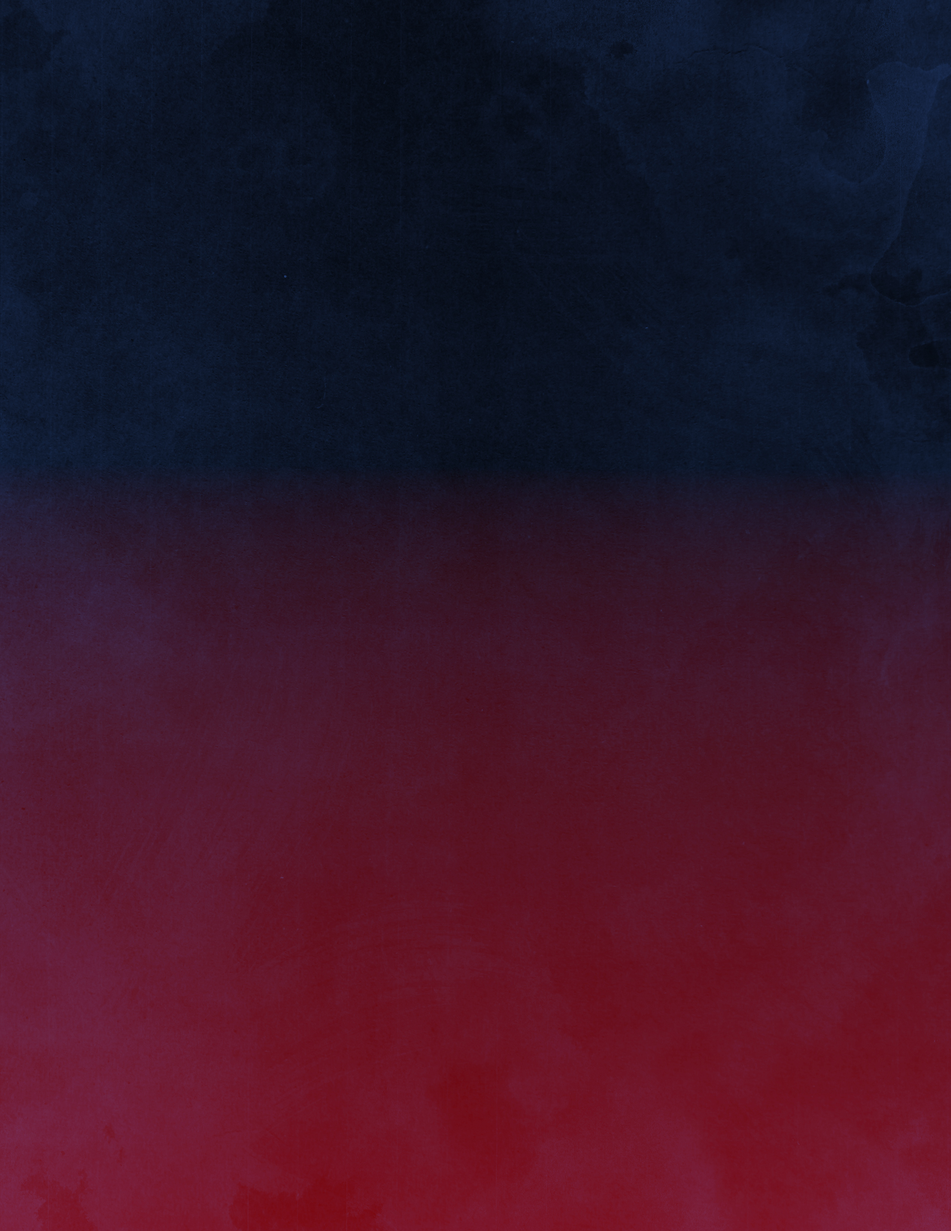
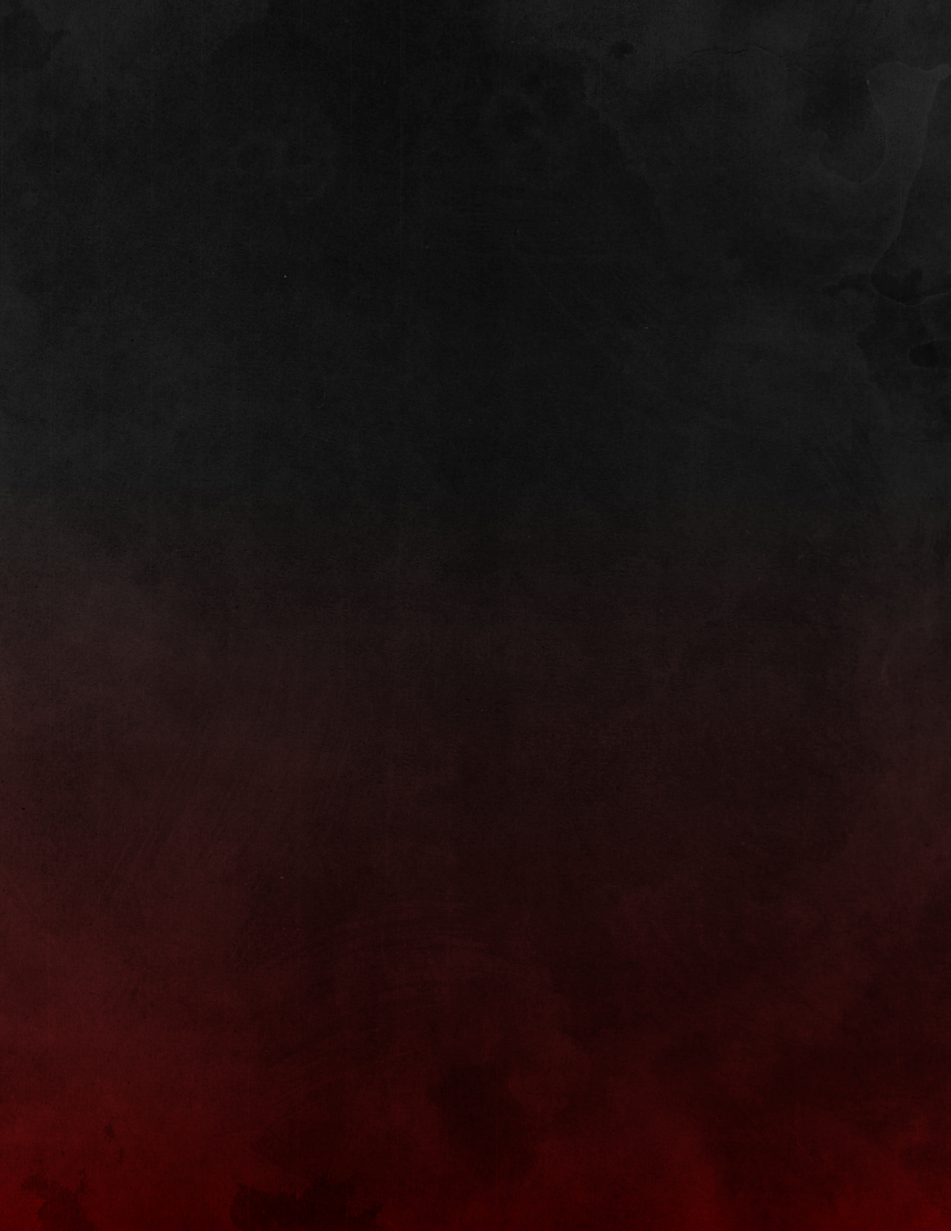
Can now insert new background with \AIPlaceNewBackground

diff --git a/example.tex b/example.tex
@@ -202,6 +202,11 @@ as it will have notable implications for downstream typesetting.
 used for initialisation in the preamble because of the layout problems
 they cause if used mid document.
 
+\subsection{New Background Without Switching}
+One can also insert a new background without switching mode using |\AIPlaceNewBackground|.
+The starred version |\AIPlaceNewBackground*| will do the same, but for one page only.
+Both commands do \emph{not} cause a page break.
+
 \subsection{Detecting Dark Mode}
 The function |\AIIsDarkMode{}{}| can be used to detect if dark mode is
 on. For example, |\AIIsDarkMode{yes}{no}|:\\[1em]
@@ -211,7 +216,7 @@ on. For example, |\AIIsDarkMode{yes}{no}|:\\[1em]
 This is used above to choose between loading black or white logos
 depending on whether dark mode is on or not.
 
-We will switch to dark mode here, and switch back at
+We will switch to dark mode here, insert a new background for a single page at the start of section~\ref{chap:text_boxes}, then switch back to light mode at
 part~\ref{part:customization}.
 \AIMakeDark
 
@@ -277,7 +282,8 @@ This ditch has a board spanning it. Someone has rubbed it down with grease.
 \AISubArea{Gate}
 The gate is four meters wide and twice as tall. An ominous portcullis looking like a gilloutine blade hangs over any souls passing through.
 
-\chapter{Text Boxes}
+\chapter{Text Boxes} \label{chap:text_boxes}
+\AIPlaceNewBackground*{img/paper-darkgreen.jpg}
 
 The module has three environments for setting text apart so that it is drawn to the reader's attention. |AIReadAloud| is used for text that a game master would read aloud.
 

diff --git a/backlog.tex b/backlog.tex
@@ -35,7 +35,7 @@
 \item[x] \so{Flush CHANGELOG.md}
 \item Some specifics:
   \begin{itemize}
-  \item Point to Astro Inferno Third Party License
+  \item[x] \so{Point to Astro Inferno Third Party License}
   \item[x] \so{Incorporate the exact licence text}
   \item[x] \so{Incorporate Astro Inferno logo}
   \item[x] \so{Incorporate Astro Inferno Coven logo}
@@ -72,6 +72,8 @@
 \begin{itemize}
 \item Replace |AISetThemeColor[AIdarkbox]| with separate calls to set different colours for different elements.
 \item[x] \so{Make function for detecting dark mode}
+\item[x] \so{Implement function for inserting new background image without
+  switching mode.}
 \item Fixes:
   \begin{itemize}
   \item[x] \so{Positioning of the page numbers is wrong when switching back
